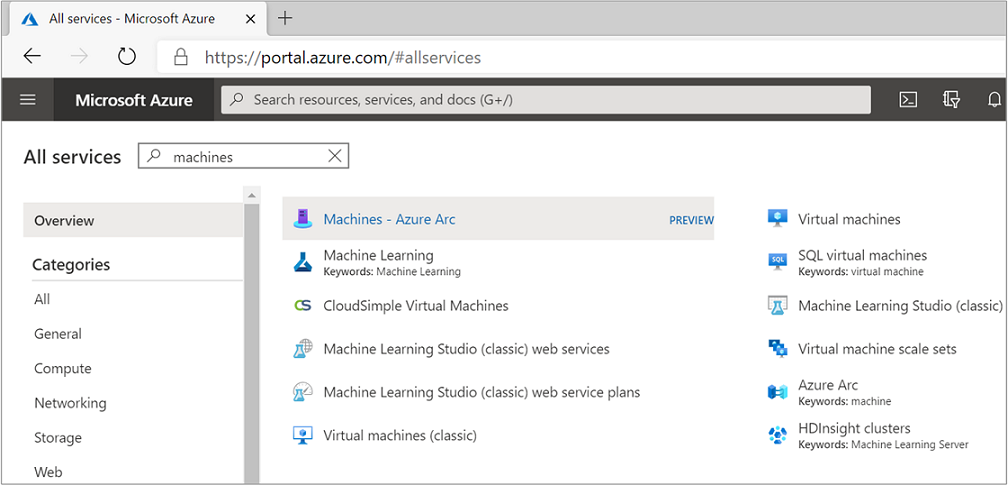
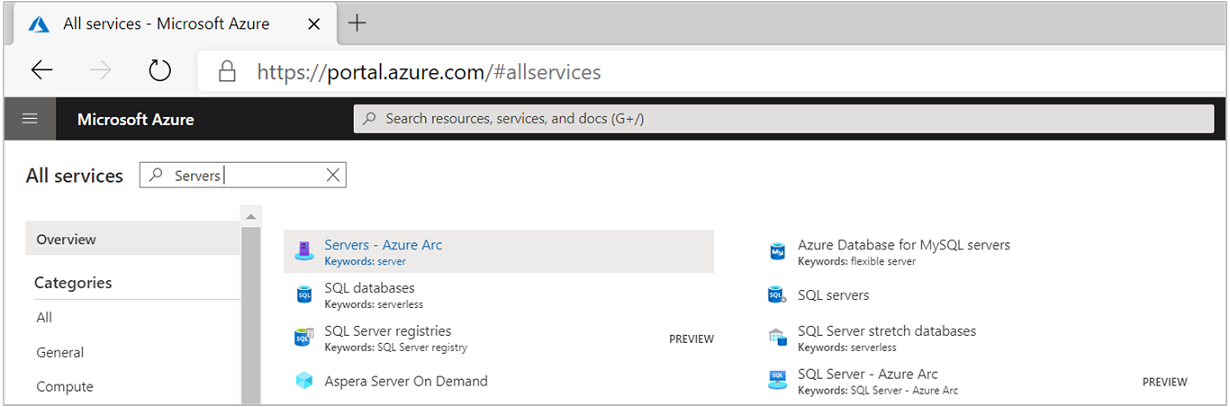
updated Arc enabled servers content

diff --git a/articles/azure-arc/servers/learn/quick-enable-hybrid-vm.md b/articles/azure-arc/servers/learn/quick-enable-hybrid-vm.md
@@ -2,7 +2,7 @@
 title: Connect hybrid machine with Azure Arc enabled servers
 description: Learn how to connect and register your hybrid machine with Azure Arc enabled servers.
 ms.topic: quickstart
-ms.date: 09/23/2020
+ms.date: 11/12/2020
 ---
 
 # Quickstart: Connect hybrid machine with Azure Arc enabled servers
@@ -46,25 +46,31 @@ az provider register --namespace 'Microsoft.GuestConfiguration'
 
 The script to automate the download, installation, and establish the connection with Azure Arc, is available from the Azure portal. To complete the process, do the following:
 
-1. Launch the Azure Arc service in the Azure portal by clicking **All services**, then searching for and selecting **Machines - Azure Arc**.
+1. Launch the Azure Arc service in the Azure portal by clicking **All services**, then searching for and selecting **Servers - Azure Arc**.
 
     :::image type="content" source="./media/quick-enable-hybrid-vm/search-machines.png" alt-text="Search for Arc enabled servers in All Services" border="false":::
 
-1. On the **Machines - Azure Arc** page, select either **Add**, at the upper left, or the **Create machine - Azure Arc** option at the bottom of the middle pane.
+1. On the **Servers - Azure Arc** page, select **Add** at the upper left.
 
-1. On the **Select a method** page, select the **Add machines using interactive script** tile, and then select **Generate script**.
+1. On the **Select a method** page, select the **Add servers using interactive script** tile, and then select **Generate script**.
 
-1. On the **Generate script** page, select the subscription and resource group where you want the machine to be managed within Azure. Select an Azure location where the machine metadata will be stored.
+1. On the **Generate script** page, select the subscription and resource group where you want the machine to be managed within Azure. Select an Azure location where the machine metadata will be stored. This location can be the same or different, as the resource group's location.
 
-1. On the **Generate script** page, in the **Operating system** drop-down list, select the operating system that the script will be running on.
+1. On the **Prerequisites** page, review the information and then select **Next: Resource details**.
 
-1. If the machine is communicating through a proxy server to connect to the internet, select **Next: Proxy Server**.
+1. On the **Resource details** page, provide the following:
 
-1. On the **Proxy server** tab, specify the proxy server IP address or the name and port number that the machine will use to communicate with the proxy server. Enter the value in the format `http://<proxyURL>:<proxyport>`.
+    1. In the **Resource group** drop-down list, select the resource group the machine will be managed from.
+    1. In the **Region** drop-down list, select the Azure region to store the servers metadata.
+    1. In the **Operating system** drop-down list, select the operating system that the script be configured to run on.
+    1. If the machine is communicating through a proxy server to connect to the internet, specify the proxy server IP address or the name and port number that the machine will use to communicate with the proxy server. Enter the value in the format `http://<proxyURL>:<proxyport>`.
+    1. Select **Next: Tags**.
 
-1. Select **Review + generate**.
+1. On the **Tags** page, review the default **Physical location tags** suggested and enter a value, or specify one or more **Custom tags** to support your standards.
 
-1. On the **Review + generate** tab, review the summary information, and then select **Download**. If you still need to make changes, select **Previous**.
+1. Select **Next: Download and run script**.
+
+1. On the **Download and run script** page, review the summary information, and then select **Download**. If you still need to make changes, select **Previous**.
 
 ## Install the agent using the script
 

diff --git a/articles/azure-arc/servers/overview.md b/articles/azure-arc/servers/overview.md
@@ -2,7 +2,7 @@
 title: Azure Arc enabled servers Overview
 description: Learn how to use Azure Arc enabled servers to manage servers hosted outside of Azure like an Azure resource.
 keywords: azure automation, DSC, powershell, desired state configuration, update management, change tracking, inventory, runbooks, python, graphical, hybrid
-ms.date: 11/04/2020
+ms.date: 11/12/2020
 ms.topic: overview
 ---
 
@@ -40,6 +40,15 @@ Log data collected and stored in a Log Analytics workspace from the hybrid machi
 For a definitive list of supported regions with Azure Arc enabled servers, see the [Azure products by region](https://azure.microsoft.com/global-infrastructure/services/?products=azure-arc) page.
 
 In most cases, the location you select when you create the installation script should be the Azure region geographically closest to your machine's location. Data at rest will be stored within the Azure geography containing the region you specify, which may also affect your choice of region if you have data residency requirements. If the Azure region your machine connects to is affected by an outage, the connected machine is not affected, but management operations using Azure may be unable to complete. In the event of a regional outage, if you have multiple locations that support a geographically redundant service, it is best to connect the machines in each location to a different Azure region.
+
+The following metadata information about the connected machine is collected:
+
+* Operating system name and version
+* Computer name
+* Computer fully qualified domain name (FQDN)
+* Connected Machine agent version
+
+This data is stored in the region where the Azure Arc machine resource is configured. For example, if the machine is registered with Arc in the East US region, this data is stored in the US region.
 
 ### Agent status
 

diff --git a/articles/azure-arc/servers/agent-overview.md b/articles/azure-arc/servers/agent-overview.md
@@ -55,7 +55,7 @@ The following versions of the Windows and Linux operating system are officially 
 
 * To onboard machines, you are a member of the **Azure Connected Machine Onboarding** role.
 
-* To read, modify, reonboard, and delete a machine, you are a member of the **Azure Connected Machine Resource Administrator** role. 
+* To read, modify, and delete a machine, you are a member of the **Azure Connected Machine Resource Administrator** role. 
 
 ### Azure subscription and service limits
 
